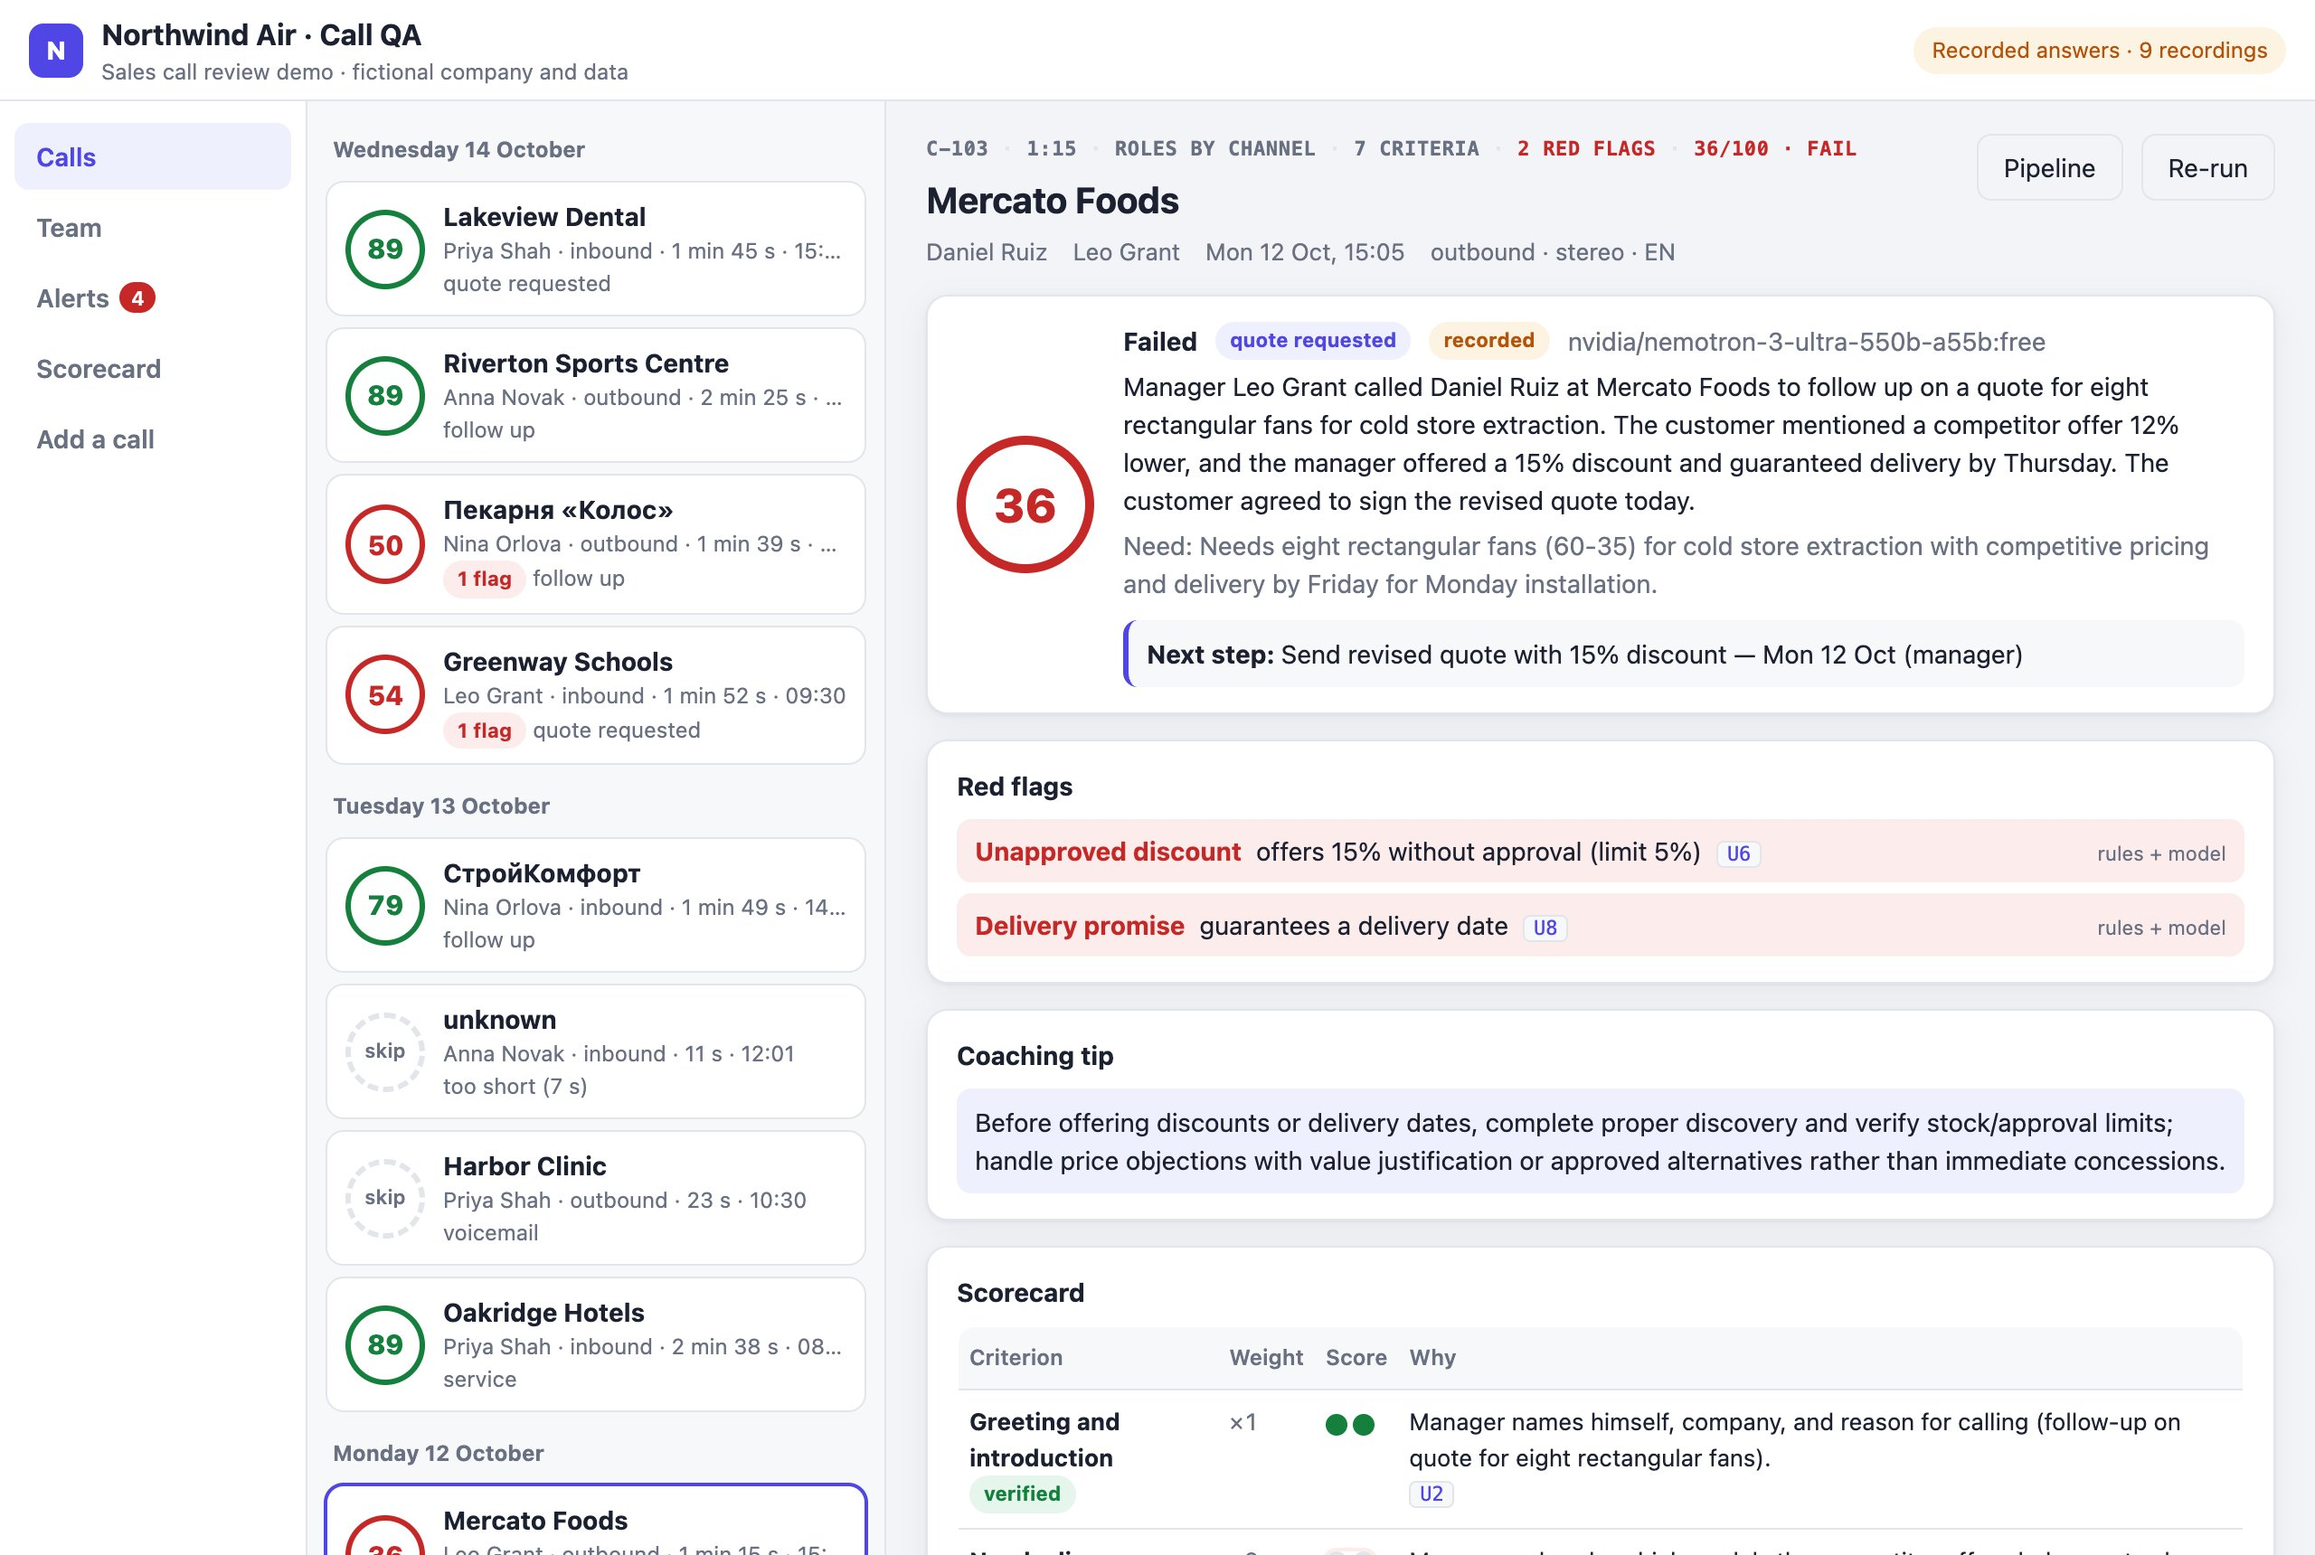
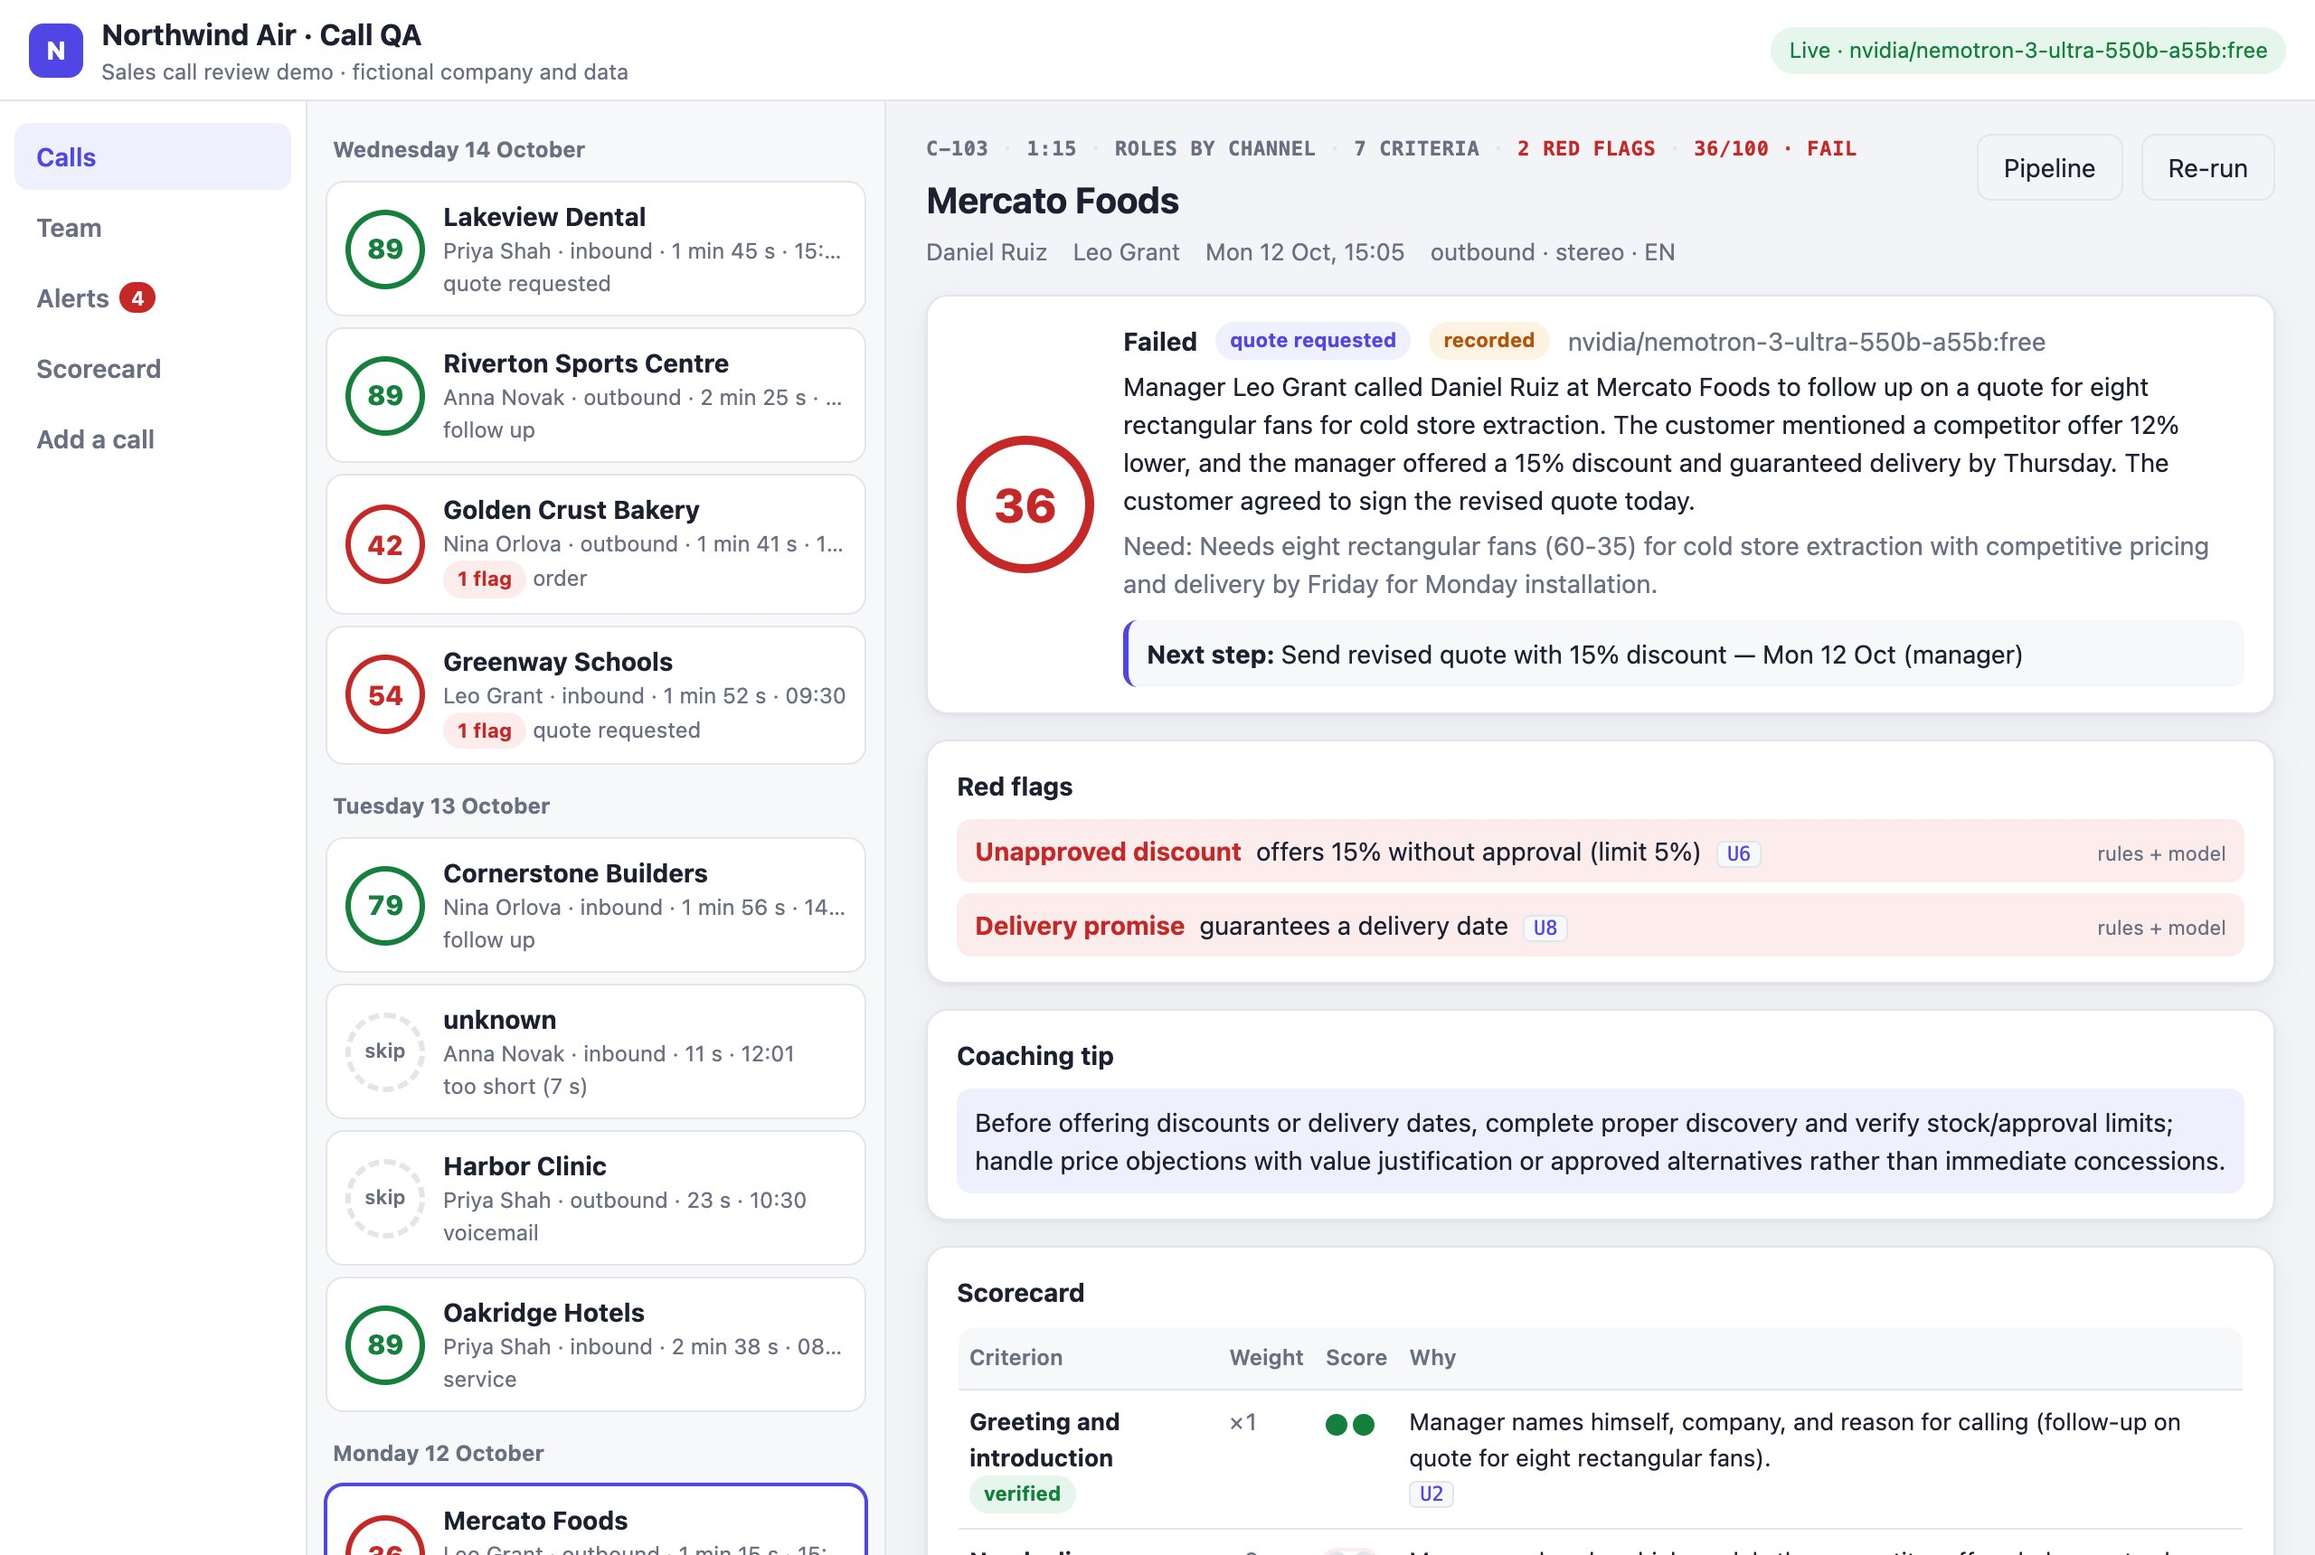
Demo calls in English: c-107 and c-108 rewritten, recordings and screenshots redone

diff --git a/test/qa.test.ts b/test/qa.test.ts
@@ -43,7 +43,7 @@ test('card numbers, card details and emails are masked before the model sees the
   const t = prepared('c-108')
   const u = t.utterances.find((x) => x.id === t.redactions.find((r) => r.kind === 'card number')!.utterance)!
   assert.equal(u.text, '[card number]. [card details]')
-  assert.ok(!/девятьсот|четыре два/.test(JSON.stringify(t.utterances)))
+  assert.ok(!/nine one two|four two seven six/i.test(JSON.stringify(t.utterances)))
   assert.equal(redact('My card is 4276 3800 1234 5678, expires 08/28.').text, 'My card is [card number], [card details]')
   assert.equal(redact('Email tom.keller at brightline dot com please').text, 'Email [email] please')
   assert.equal(redact('Call me on 555 0142 77').text, 'Call me on [phone]')
@@ -192,7 +192,7 @@ test('without a date from the model, the manager\'s promise at the end supplies 
   assert.deepEqual(dueFromTranscript(t, '2026-10-14')?.due, '2026-10-14')
   const pasted = prepare({ ...call('c-101'), stt: { provider: 'x', utterances: parsePasted('Manager: Hello.\nCustomer: Hi.\nManager: I can give five percent today.\nCustomer: Ok.\nManager: I will call you on Thursday morning.') } })
   assert.equal(dueFromTranscript(pasted, '2026-10-12')?.due, '2026-10-15')
-  assert.equal(dueFromTranscript(prepared('c-107'), '2026-10-13'), null, '"созвонимся как-нибудь" has no date')
+  assert.equal(dueFromTranscript(prepared('c-107'), '2026-10-13'), null, '"let\'s talk again sometime" has no date')
 })
 
 test('a next-step date is kept only if the call names a day or time', () => {
@@ -231,7 +231,7 @@ test('the transcript margin shows each citing criterion with its verified score,
   const labels = (id: string) => (marks[id] ?? []).map((m) => m.label)
   assert.ok(labels('U2').includes('GREETING 2/2'))
   // Card details read out: the rules confirmed the breach, so the zero is theirs too.
-  assert.deepEqual(labels('U4'), ['LISTENING 2/2', 'COMPLIANCE 0/2 · RULE'])
+  assert.deepEqual(labels('U4'), ['COMPLIANCE 0/2 · RULE'])
   assert.deepEqual(labels('U5'), ['COMPLIANCE 0/2 · RULE', 'MASKED'])
   assert.equal(marks.U5.find((m) => m.label === 'MASKED')!.title, 'masked before analysis: card number, card details')
   assert.equal(marks.U1, undefined)
@@ -240,12 +240,12 @@ test('the transcript margin shows each citing criterion with its verified score,
   a.redFlags = a.redFlags.map((f) => ({ ...f, source: 'model' as const }))
   a.criteria.find((c) => c.id === 'compliance')!.evidence.push('U99')
   const m2 = marginMarks(a, r.transcript!)
-  assert.deepEqual(m2.U4.map((m) => m.label), ['LISTENING 2/2', 'COMPLIANCE 0/2'])
+  assert.deepEqual(m2.U4.map((m) => m.label), ['COMPLIANCE 0/2'])
   assert.equal(m2.U99, undefined)
 })
 
 test('the call header strip sums up id, duration, roles, criteria, flags and verdict', async () => {
   const s = statusStrip(call('c-108'), await scored108()).map((x) => x.text)
-  assert.deepEqual(s, ['c-108', `${Math.floor(call('c-108').audio.durationSec / 60)}:${String(call('c-108').audio.durationSec % 60).padStart(2, '0')}`, 'roles by channel', '7 criteria · 1 n/a', '1 red flag', '50/100 · fail'])
+  assert.deepEqual(s, ['c-108', `${Math.floor(call('c-108').audio.durationSec / 60)}:${String(call('c-108').audio.durationSec % 60).padStart(2, '0')}`, 'roles by channel', '7 criteria · 1 n/a', '1 red flag', '42/100 · fail'])
   assert.deepEqual(statusStrip(call('c-108'), undefined).map((x) => x.text).slice(2), ['queued'])
 })

diff --git a/README.md b/README.md
@@ -6,7 +6,7 @@ the demo is what happens around the model: **every score has to cite the lines o
 that justify it, and the server, not the model, decides what counts.**
 
 Everything here is fictional: Northwind Air, a ventilation distributor, four sales managers and
-eleven calls written for the demo (English and Russian; good calls, rushed calls, a discount nobody
+eleven calls written for the demo (good calls, rushed calls, a discount nobody
 approved, a complaint, a voicemail, a card number read out on the phone).
 
 ![A call that broke policy](docs/call.jpg)
@@ -18,7 +18,7 @@ approved, a complaint, a voicemail, a card number read out on the phone).
 - Stereo recordings take roles from the channel (the office line is channel 0). Mono recordings only
   have "speaker 0" and "speaker 1" from diarization, so the manager is found by what they say: the
   one who introduces the company is the manager, the one who asks "is this Northwind?" is not.
-- Lines a speech model invents from silence ("Thanks for watching!", «Продолжение следует») and
+- Lines a speech model invents from silence ("Thanks for watching!" and its Russian twin) and
   filler are dropped, and shown struck through.
 - Card numbers (spoken digit by digit, in English or Russian), expiry dates, security codes, emails
   and phone numbers are masked **before** the text reaches a model or the result store.
